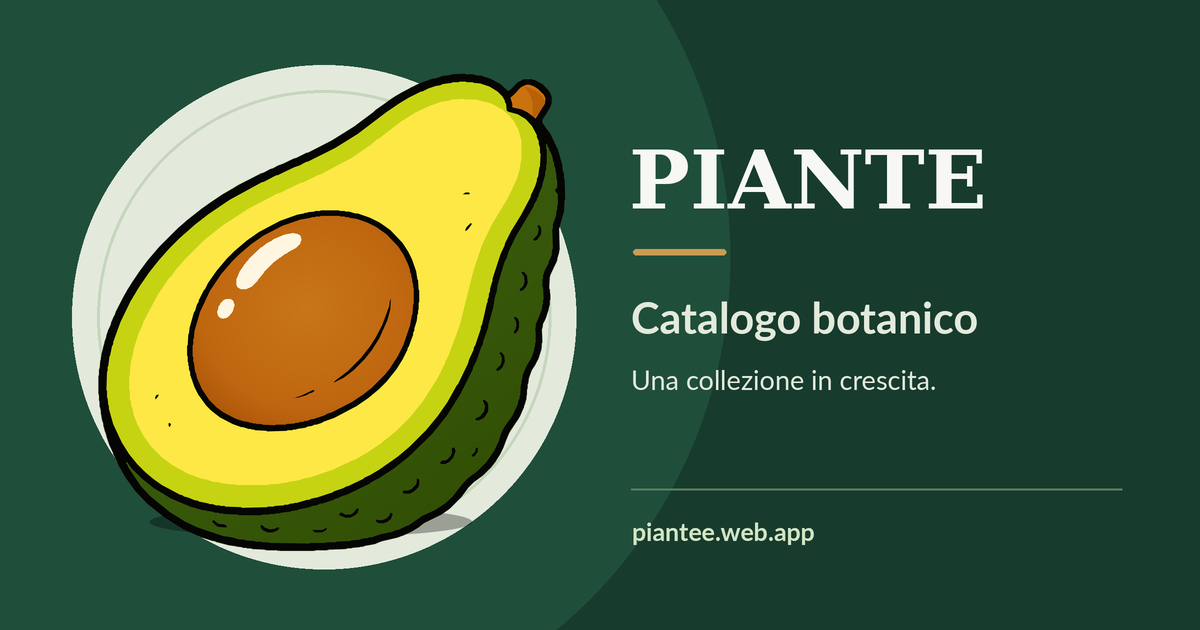
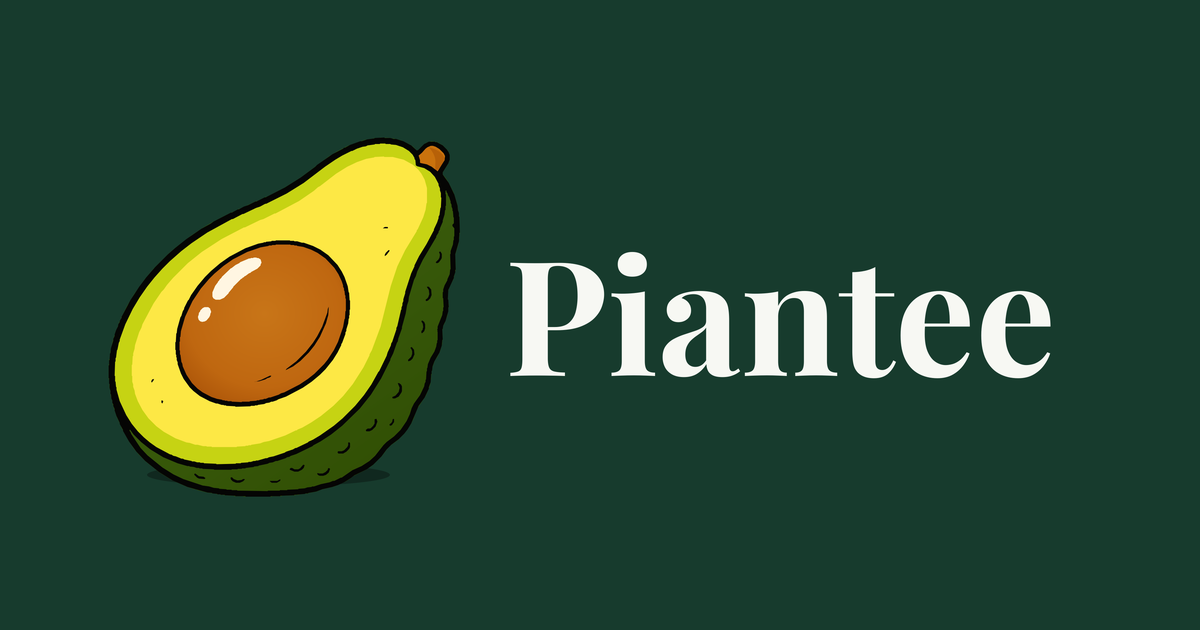
fix: anteprima social Piantee con avocado SVG originale (#29)
* chore: prepara aggiornamento deterministico anteprima social

* asset: aggiorna anteprima social con icona originale Piantee

* fix: aggiorna anteprima social con avocado originale e nome Piantee

---------

diff --git a/index.html b/index.html
@@ -16,15 +16,15 @@
   <meta property="og:title" content="Piantee — Vivaio e catalogo botanico">
   <meta property="og:description" content="Scopri le piante del vivaio: specie tropicali, agrumi e altre varietà, con foto e informazioni botaniche.">
   <meta property="og:url" content="https://piantee.web.app/">
-  <meta property="og:image" content="https://piantee.web.app/social-preview-v1.png">
-  <meta property="og:image:secure_url" content="https://piantee.web.app/social-preview-v1.png">
+  <meta property="og:image" content="https://piantee.web.app/social-preview-v1.png?v=2">
+  <meta property="og:image:secure_url" content="https://piantee.web.app/social-preview-v1.png?v=2">
   <meta property="og:image:type" content="image/png">
   <meta property="og:image:width" content="1200">
   <meta property="og:image:height" content="630">
-  <meta property="og:image:alt" content="Avocado illustrato e nome Piante su fondo verde, catalogo botanico.">
+  <meta property="og:image:alt" content="Avocado originale del sito e scritta Piantee su fondo verde.">
   <meta name="twitter:card" content="summary_large_image">
-  <meta name="twitter:image" content="https://piantee.web.app/social-preview-v1.png">
-  <meta name="twitter:image:alt" content="Avocado illustrato, Piante, catalogo botanico.">
+  <meta name="twitter:image" content="https://piantee.web.app/social-preview-v1.png?v=2">
+  <meta name="twitter:image:alt" content="Avocado originale del sito, Piantee, catalogo botanico.">
   <link rel="preconnect" href="https://fonts.googleapis.com">
   <link rel="preconnect" href="https://fonts.gstatic.com" crossorigin>
   <link href="https://fonts.googleapis.com/css2?family=DM+Sans:wght@400;500;600;700&family=Playfair+Display:wght@500;600;700&display=swap" rel="stylesheet">

diff --git a/tests/contracts/brand-metadata.test.js b/tests/contracts/brand-metadata.test.js
@@ -54,7 +54,7 @@ test("Open Graph e Twitter sono accessibili ai crawler senza eseguire JavaScript
   assert.equal(meta("og:locale"), "it_IT");
   assert.equal(meta("og:site_name"), "Piantee");
   assert.equal(meta("og:url"), "https://piantee.web.app/");
-  assert.equal(meta("og:image"), "https://piantee.web.app/social-preview-v1.png");
+  assert.equal(meta("og:image"), "https://piantee.web.app/social-preview-v1.png?v=2");
   assert.equal(meta("og:image:secure_url"), meta("og:image"));
   assert.equal(meta("og:image:type"), "image/png");
   assert.equal(meta("og:image:width"), "1200");
@@ -64,6 +64,10 @@ test("Open Graph e Twitter sono accessibili ai crawler senza eseguire JavaScript
   assert.deepEqual(pngSize("social-preview-v1.png"), [1200, 630]);
   assert.equal(meta("og:description"), meta("description", "name"));
   assert.equal(meta("og:title"), html.match(/<title>(.*?)<\/title>/)?.[1]);
+  assert.match(meta("og:image:alt"), /Avocado originale.*Piantee/);
+  assert.match(meta("twitter:image:alt", "name"), /Avocado originale.*Piantee/);
+  assert.doesNotMatch(meta("og:image:alt") + meta("twitter:image:alt", "name"), /nome Piante\b|, Piante\b/);
+
 });
 
 test("Il marchio usa la favicon SVG già approvata e il nome Piantee", () => {
